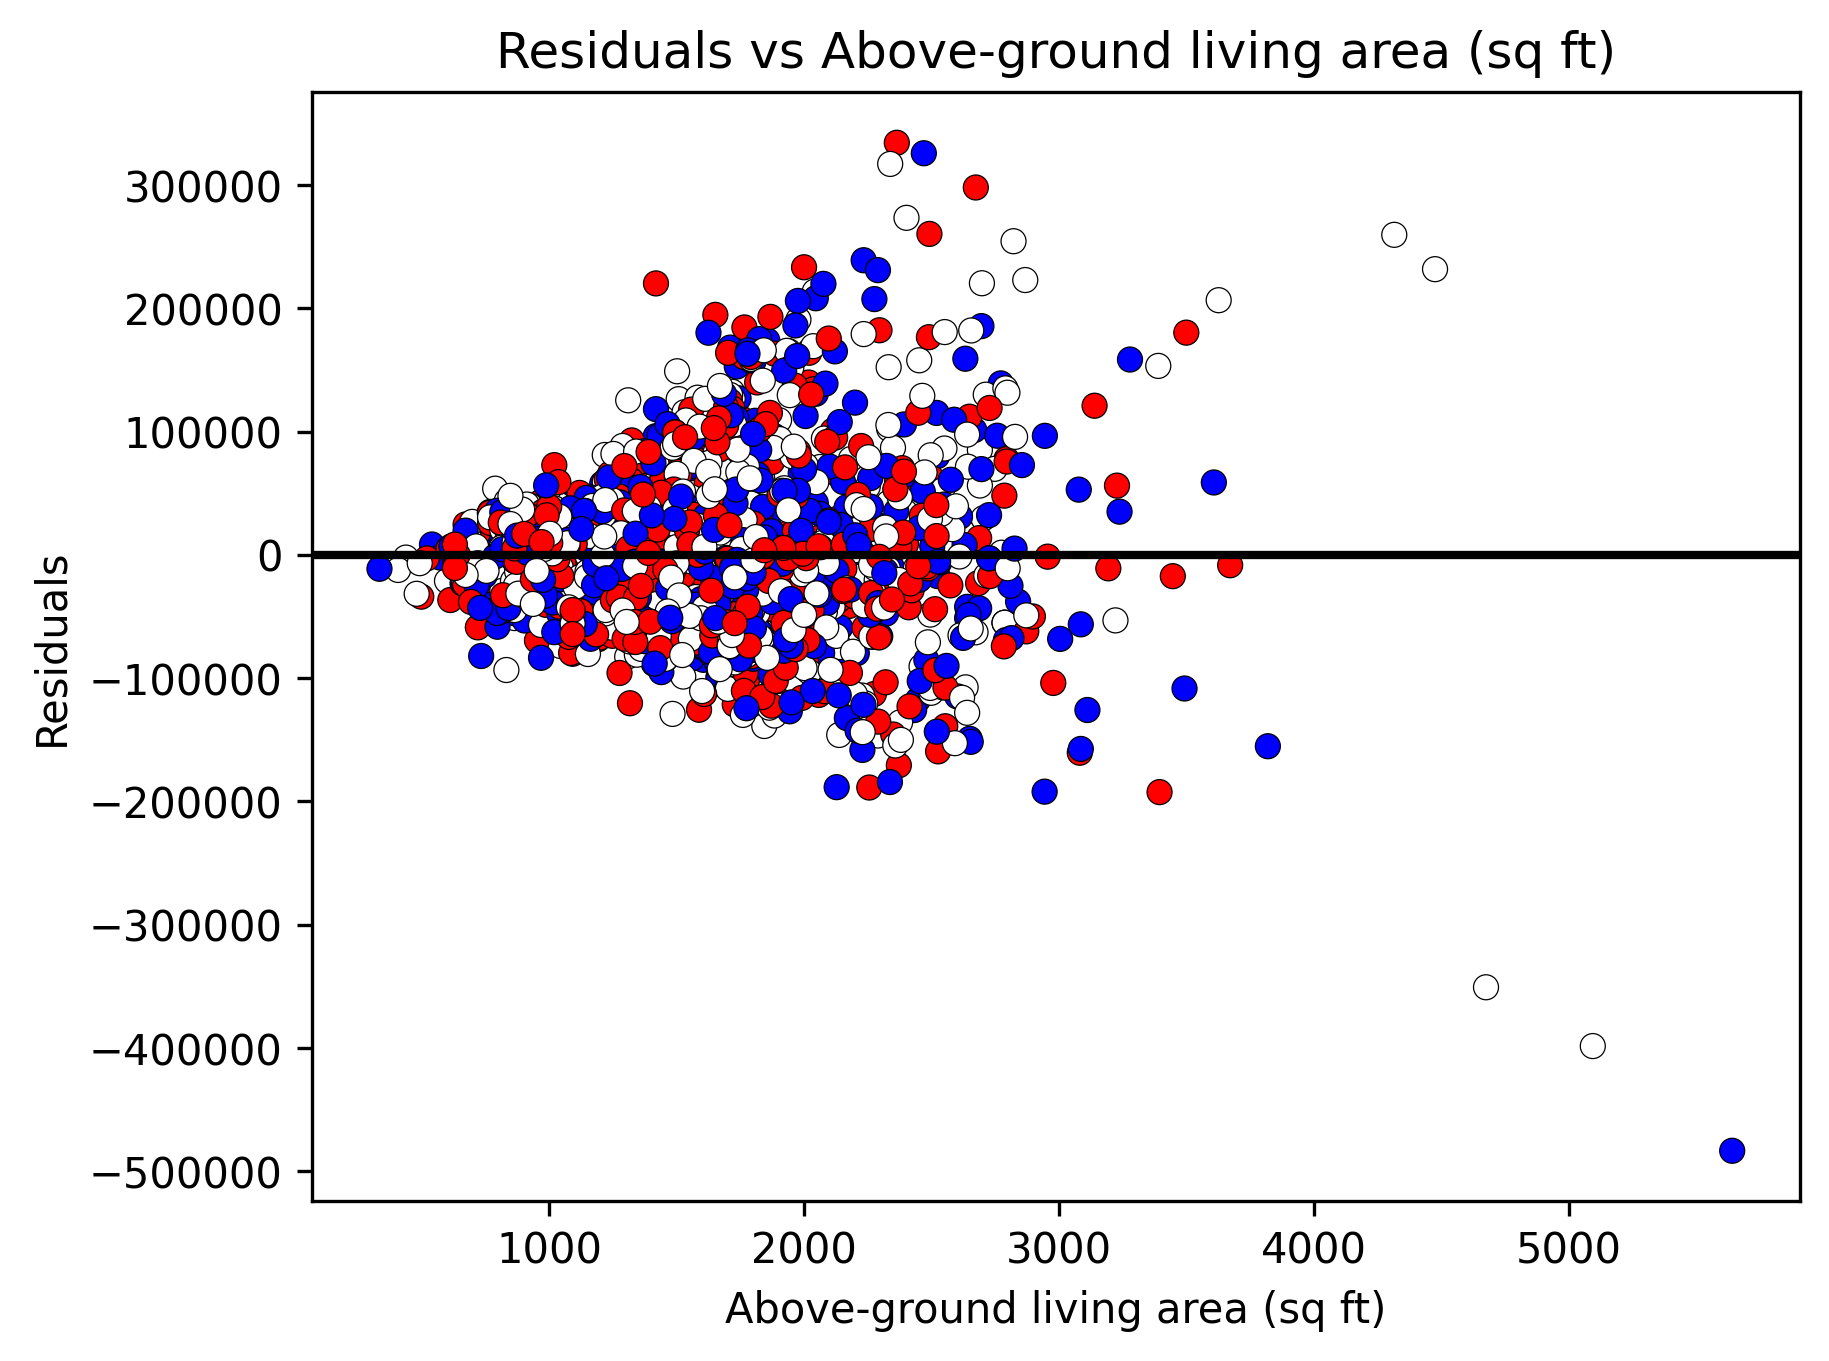
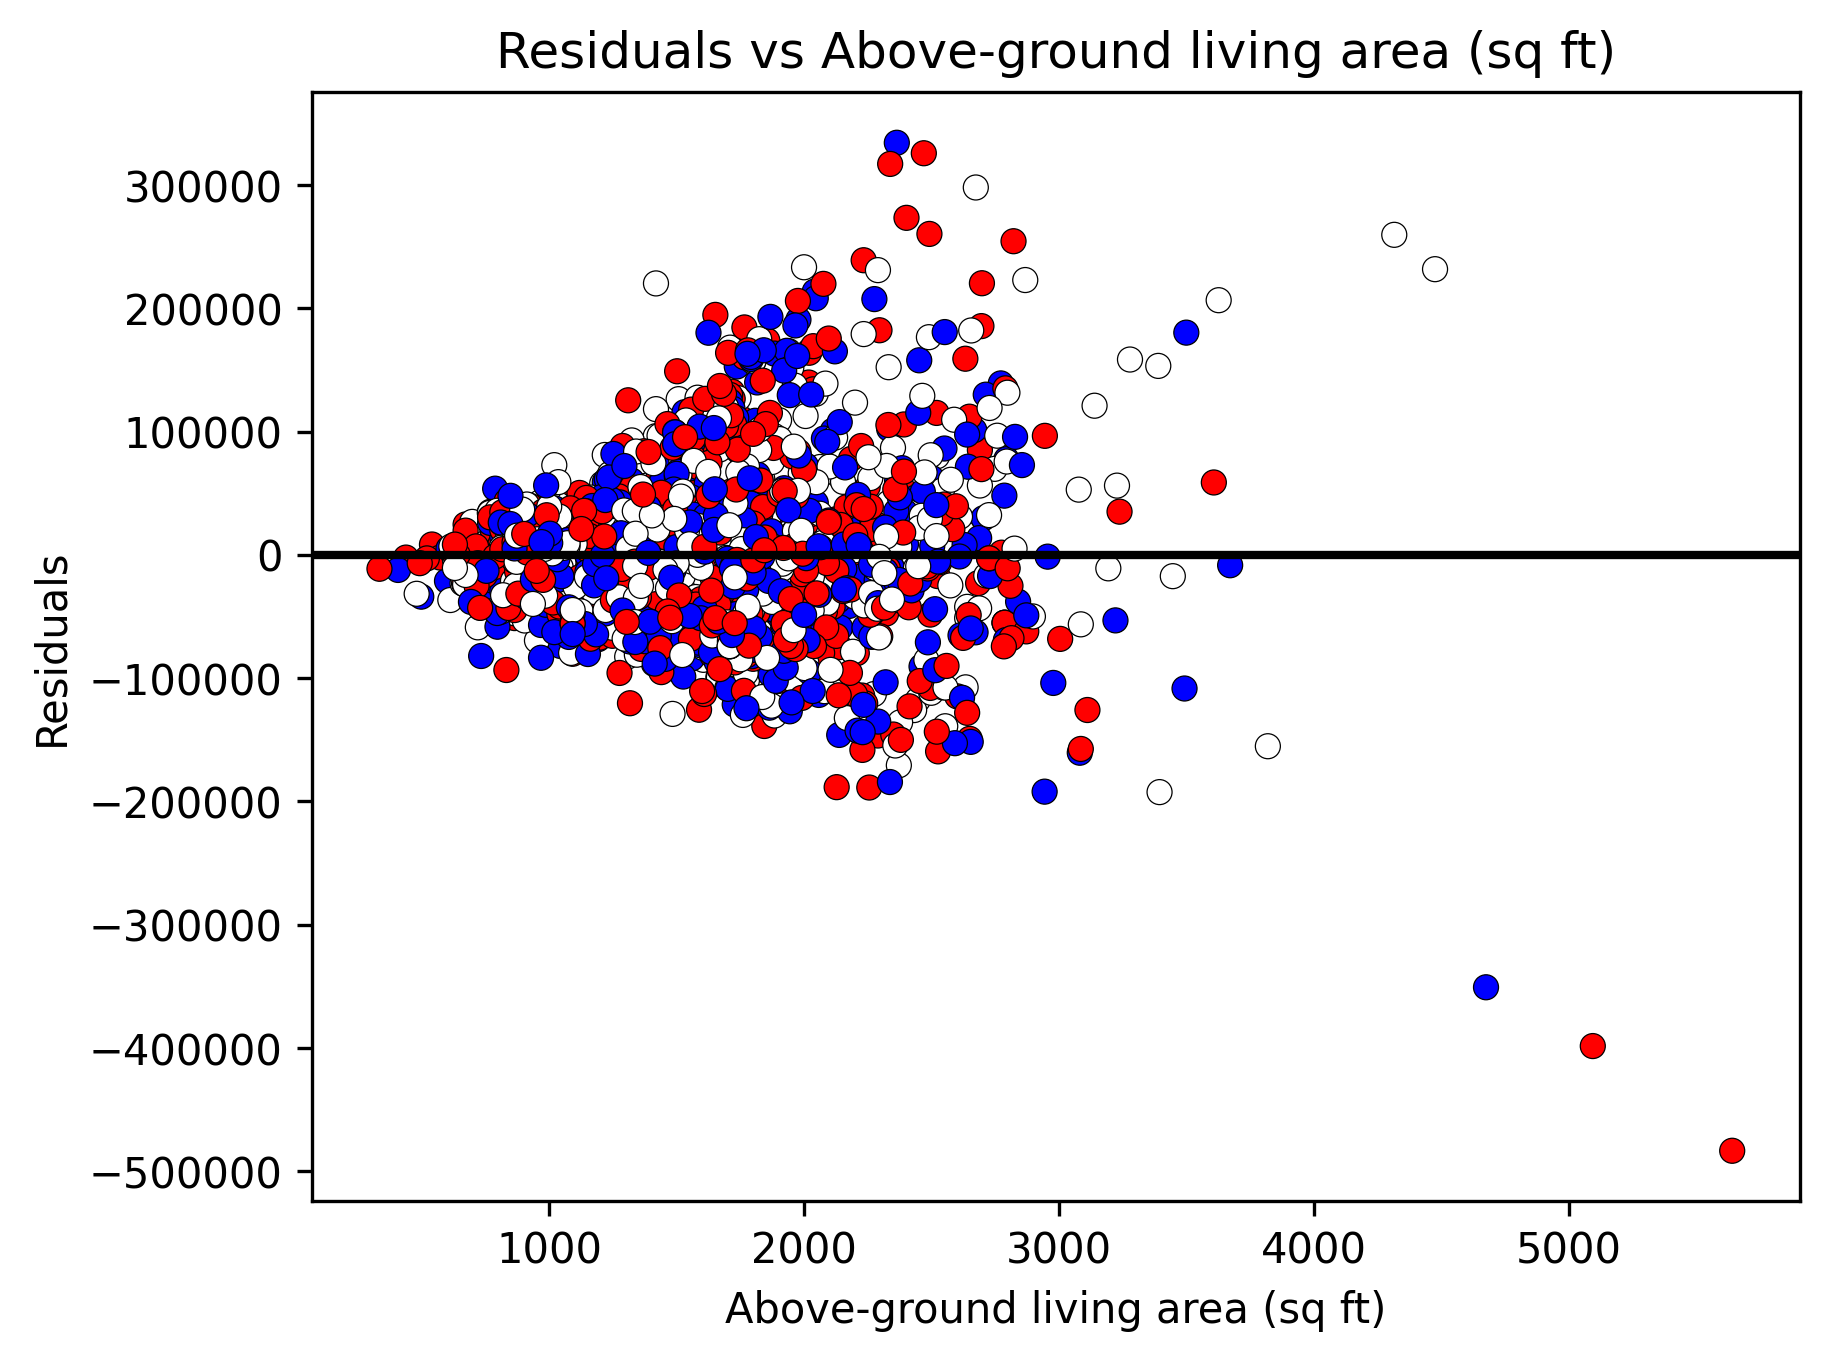
Run regression updates and add OverallQual plots

diff --git a/src/datafun/ames_regression.py b/src/datafun/ames_regression.py
@@ -1,4 +1,5 @@
-"""ames_regression.py - Regression Module (Ames Housing)
+"""
+ames_regression.py - Regression Module (Ames Housing)
 
 Author: Justice Tefera
 Date: 2026-06
@@ -7,6 +8,7 @@ Date: 2026-06
 # === IMPORTS ===
 
 import logging
+import math
 import random
 from typing import Final
 
@@ -15,6 +17,7 @@ import matplotlib.pyplot as plt
 import numpy as np
 import pandas as pd
 from sklearn.linear_model import LinearRegression
+from sklearn.metrics import mean_squared_error, r2_score
 
 # === LOGGER ===
 
@@ -100,7 +103,18 @@ def predict(model: LinearRegression, X: np.ndarray):
     return y_hat
 
 
-# === SECTION 7: EXAMINE FIT ===
+# === SECTION 7: METRICS (NEW) ===
+
+
+def compute_metrics(y: np.ndarray, y_hat: np.ndarray) -> tuple[float, float]:
+    r2 = r2_score(y, y_hat)
+    rmse = math.sqrt(mean_squared_error(y, y_hat))
+    LOG.info(f"R-squared: {r2:.4f}")
+    LOG.info(f"RMSE: {rmse:,.2f}")
+    return r2, rmse
+
+
+# === SECTION 8: EXAMINE FIT ===
 
 
 def examine_fit(
@@ -111,7 +125,7 @@ def examine_fit(
     return residuals
 
 
-# === SECTION 8: PLOTS ===
+# === SECTION 9: PLOTS ===
 
 
 def make_plots(
@@ -125,7 +139,6 @@ def make_plots(
     LOG.info("Creating scatter plot with fitted line")
     plt.figure()
 
-    # Random red, white, and blue dots
     colors_scatter = [
         random.choice(["#FF0000", "#FFFFFF", "#0000FF"]) for _ in range(len(df_model))
     ]
@@ -138,7 +151,6 @@ def make_plots(
         linewidths=0.3,
     )
 
-    # Fitted line (black)
     order = np.argsort(feature_values)
     plt.plot(feature_values[order], y_hat[order], color="black", linewidth=2)
 
@@ -152,7 +164,6 @@ def make_plots(
     LOG.info("Creating residual plot")
     plt.figure()
 
-    # Random red, white, and blue dots
     colors_resid = [
         random.choice(["#FF0000", "#FFFFFF", "#0000FF"]) for _ in range(len(df_model))
     ]
@@ -161,7 +172,6 @@ def make_plots(
         feature_values, residuals, c=colors_resid, edgecolors="black", linewidths=0.3
     )
 
-    # Horizontal line (black)
     plt.axhline(0, color="black", linewidth=2)
 
     plt.xlabel(FEATURE_LABEL)
@@ -171,7 +181,7 @@ def make_plots(
     plt.savefig("docs/images/residuals_plot.png", dpi=300, bbox_inches="tight")
 
 
-# === SECTION 9: SUMMARY ===
+# === SECTION 10: SUMMARY ===
 
 
 def summarize(
@@ -194,7 +204,7 @@ def summarize(
     LOG.info("========================")
 
 
-# === MAIN ===
+# === MAIN PIPELINE ===
 
 
 def main():
@@ -205,12 +215,80 @@ def main():
     X, y = build_x_and_y(df_model)
     model = fit_line(X, y)
     y_hat = predict(model, X)
+    compute_metrics(y, y_hat)
     residuals = examine_fit(model, X, y, y_hat)
     make_plots(df_model, y_hat, residuals)
     summarize(df, df_model, model)
 
-    plt.show()
 
+# === SECOND REGRESSION (Overall Qual) ===
+
+
+def run_overallqual_regression():
+    FEATURE_COL_2 = "Overall Qual"
+    FEATURE_LABEL_2 = "Overall Quality Rating (1–10)"
+
+    log_header(LOG, "REGRESSION: Overall Qual vs SalePrice")
+
+    df = load_data()
+    df_model = df.dropna(subset=[FEATURE_COL_2, TARGET_COL]).copy()
+
+    LOG.info(f"Original rows: {df.shape[0]}")
+    LOG.info(f"Model rows:    {df_model.shape[0]}")
+    LOG.info(f"Rows dropped:  {df.shape[0] - df_model.shape[0]}")
+
+    X = df_model[[FEATURE_COL_2]].to_numpy()
+    y = df_model[TARGET_COL].to_numpy()
+
+    model = LinearRegression()
+    model.fit(X, y)
+
+    slope = float(model.coef_[0])
+    intercept = float(model.intercept_)
+
+    LOG.info(
+        f"Fitted line: {TARGET_COL} = {slope:.6g} * {FEATURE_COL_2} + {intercept:.6g}"
+    )
+
+    y_hat = model.predict(X)
+    compute_metrics(y, y_hat)
+    residuals = y - y_hat
+
+    # Scatter plot
+    plt.figure()
+    plt.scatter(X, y, alpha=0.4, color="blue", edgecolors="black")
+    plt.plot(X, y_hat, color="red", linewidth=2)
+    plt.xlabel(FEATURE_LABEL_2)
+    plt.ylabel(TARGET_LABEL)
+    plt.title(f"{FEATURE_LABEL_2} vs {TARGET_LABEL}")
+    plt.savefig("docs/images/overallqual_saleprice_scatter.png", dpi=300)
+
+    # Residual plot
+    plt.figure()
+    plt.scatter(X, residuals, alpha=0.4, color="blue", edgecolors="black")
+    plt.axhline(0, color="red", linewidth=2)
+    plt.xlabel(FEATURE_LABEL_2)
+    plt.ylabel("Residuals")
+    plt.title(f"Residuals vs {FEATURE_LABEL_2}")
+    plt.savefig("docs/images/overallqual_saleprice_residuals.png", dpi=300)
+
+    LOG.info("========================")
+    LOG.info("SUMMARY")
+    LOG.info("========================")
+    LOG.info(f"Dataset: {DATASET_NAME}")
+    LOG.info(f"Feature (x): {FEATURE_COL_2}")
+    LOG.info(f"Target  (y): {TARGET_COL}")
+    LOG.info(f"Original rows: {df.shape[0]}")
+    LOG.info(f"Model rows:    {df_model.shape[0]}")
+    LOG.info(
+        f"Fitted line: {TARGET_COL} = {slope:.6g} * {FEATURE_COL_2} + {intercept:.6g}"
+    )
+    LOG.info("========================")
+
+
+# === RUN BOTH REGRESSIONS ===
 
 if __name__ == "__main__":
     main()
+    run_overallqual_regression()
+    plt.show()

diff --git a/README.md b/README.md
@@ -7,6 +7,33 @@
 > Professional Python project: linear regression and predictive analytics.
 
 ## Project Goal
+## 🔵 Regression 1: Gr Liv Area → SalePrice
+
+| Metric | Value | Interpretation |
+| --- | --- | --- |
+| **R²** | 0.4995 | About 50 % of the variation in sale price is explained by above‑ground living area. That’s moderate — size matters, but other factors (quality, neighborhood, etc.) also influence price. |
+| **RMSE** | $56 504.88 | On average, predictions differ from actual sale prices by roughly $56 500. That’s a realistic spread for housing data. |
+
+### 🧠 Meaning
+- The scatterplot should show a clear upward trend — larger homes tend to cost more.
+- The residual plot likely shows a funnel shape (variance increases for larger homes).
+- Because residuals aren’t perfectly random, a straight line is a reasonable but imperfect description.
+- This model is useful for understanding general price trends, not precise predictions.
+
+
+### 🔵 Regression 2: Overall Qual → SalePrice
+
+| Metric | Value | Interpretation |
+| --- | --- | --- |
+| **R²** | 0.6388 | About 64 % of the variation in sale price is explained by overall quality rating — a strong linear relationship. |
+| **RMSE** | $48 002.35 | Average prediction error is around $48 000, smaller than the first model, meaning better fit. |
+
+### 🧠 Meaning
+- The fitted‑line plot should show a steep, clean upward trend — higher‑quality homes sell for more.
+- Residuals are likely more evenly scattered, meaning the linear model fits well.
+- A straight line is a fair description of this relationship.
+- This model is stronger and more reliable than the Gr Liv Area model.
+
 
 This project introduces **linear regression**, the process of
 fitting a model to data and using it to make predictions.